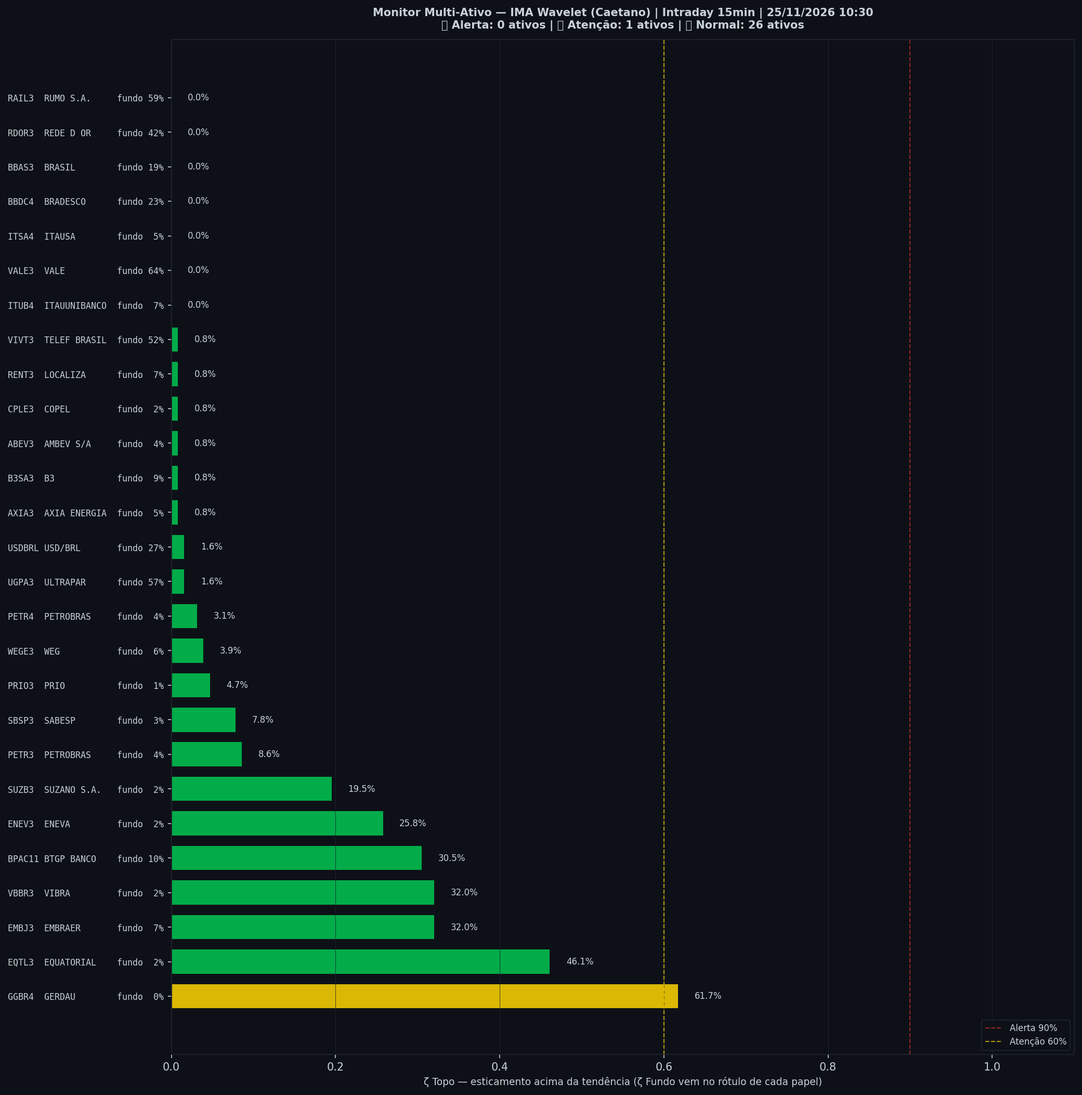
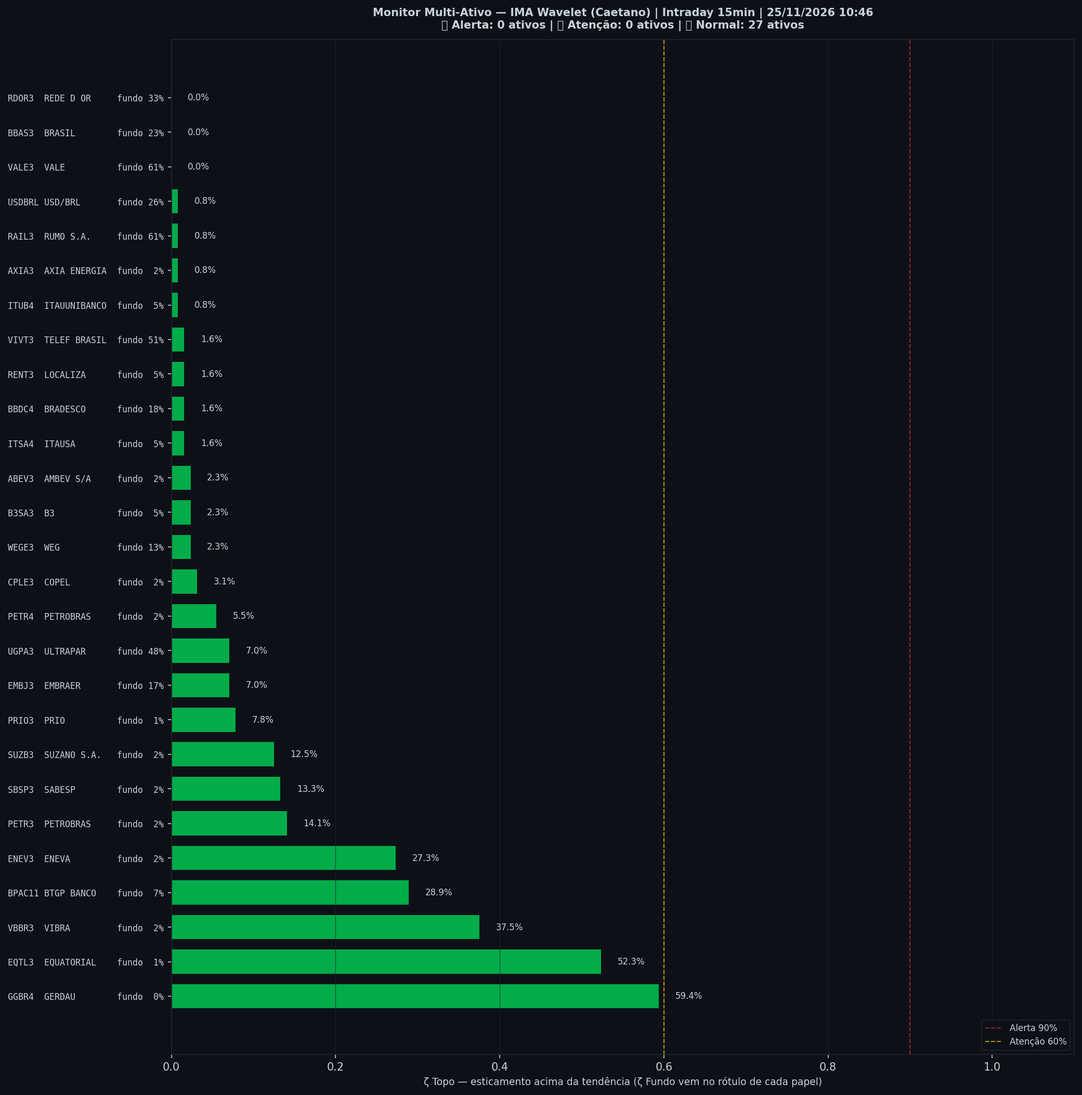
🤖 Auto: Sinal 25/11/2026 10:46

Changed region(s): [[0.1562, 0.8642, 0.6559, 0.9259], [0.1562, 0.1543, 0.2186, 0.6481], [0.2186, 0.679, 0.4685, 0.8642]]

diff --git a/content/intraday/2026-11-25.md b/content/intraday/2026-11-25.md
@@ -1,20 +1,20 @@
 ---
-title: "🟢 Intraday 25/11/2026 10:15 BRT — VERDE"
+title: "🟢 Intraday 25/11/2026 10:30 BRT — VERDE"
 date: 2026-11-25
 tags: [intraday]
 ---
 
-<p style="margin:.4rem 0 .2rem"><span style="display:inline-block;text-align:center;margin:0 1.8rem .2rem 0"><span style="font-size:4rem;font-weight:800;line-height:1;color:inherit">0%</span><br><span style="font-size:.95rem;opacity:.75">ζ Topo</span></span><span style="display:inline-block;text-align:center;margin:0 1.8rem .2rem 0"><span style="font-size:4rem;font-weight:800;line-height:1;color:inherit">8%</span><br><span style="font-size:.95rem;opacity:.75">ζ Fundo</span></span><span style="display:inline-block;text-align:center;margin:0 1.8rem .2rem 0"><span style="font-size:4rem;font-weight:800;line-height:1;color:inherit">−2,4%</span><br><span style="font-size:.95rem;opacity:.75">Dist. da média · p30</span></span></p><p style="margin:0 0 .9rem;opacity:.7;font-size:.9rem">25/11/2026 10:15 BRT · candles de 15 min</p>
+<p style="margin:.4rem 0 .2rem"><span style="display:inline-block;text-align:center;margin:0 1.8rem .2rem 0"><span style="font-size:4rem;font-weight:800;line-height:1;color:inherit">2%</span><br><span style="font-size:.95rem;opacity:.75">ζ Topo</span></span><span style="display:inline-block;text-align:center;margin:0 1.8rem .2rem 0"><span style="font-size:4rem;font-weight:800;line-height:1;color:inherit">5%</span><br><span style="font-size:.95rem;opacity:.75">ζ Fundo</span></span><span style="display:inline-block;text-align:center;margin:0 1.8rem .2rem 0"><span style="font-size:4rem;font-weight:800;line-height:1;color:inherit">−2,0%</span><br><span style="font-size:.95rem;opacity:.75">Dist. da média · p38</span></span></p><p style="margin:0 0 .9rem;opacity:.7;font-size:.9rem">25/11/2026 10:30 BRT · candles de 15 min</p>
 
-> [!success] Onde o mercado está agora (25/11 10:15, candles de 15 min): **🟢 Sem esticamento**
-> `Pânico ····················· Euforia` · **sem leitura** — os dois ζ abaixo de 20% (Topo 0%, Fundo 8%). A régua mede ζ Topo − ζ Fundo, hoje −8 p.p.; ponteiro no centro seria lido como equilíbrio, e não há esticamento medido de nenhum dos dois lados.
+> [!success] Onde o mercado está agora (25/11 10:30, candles de 15 min): **🟢 Sem esticamento**
+> `Pânico ····················· Euforia` · **sem leitura** — os dois ζ abaixo de 20% (Topo 2%, Fundo 5%). A régua mede ζ Topo − ζ Fundo, hoje −3 p.p.; ponteiro no centro seria lido como equilíbrio, e não há esticamento medido de nenhum dos dois lados.
 >
-> **O Ibovespa está praticamente de lado agora, aos 164.396 pontos.** O preço não fez movimento brusco em relação à sua tendência, nem para cima nem para baixo. Isso fala da velocidade do movimento, não do nível do preço.
+> **O Ibovespa sobe 0,58% agora, aos 165.037 pontos.** O preço não fez movimento brusco em relação à sua tendência, nem para cima nem para baixo. Isso fala da velocidade do movimento, não do nível do preço.
 >
 > *Leitura educacional baseada em 26 anos de dados. Não é recomendação de investimento.*
 
-> [!success] IMA Intraday · 15 min (25/11 10:15): 🟢 **VERDE** — ζ Topo **0%** · ▼ -4 p.p. vs leitura anterior
-> `░░░░░░░░░░░░░░░░░░░░` **0%**
+> [!success] IMA Intraday · 15 min (25/11 10:30): 🟢 **VERDE** — ζ Topo **2%** · ▲ +2 p.p. vs leitura anterior
+> `░░░░░░░░░░░░░░░░░░░░` **2%**
 > Sem esticamento brusco em relação à tendência.
 
 
@@ -22,13 +22,13 @@ tags: [intraday]
 
 
 
-| Indicador — IMA Intraday · 15 min (25/11 10:15) | Valor |
+| Indicador — IMA Intraday · 15 min (25/11 10:30) | Valor |
 |---|---|
-| ζ Topo — preço esticado acima da tendência | **0%** |
-| ζ Fundo — preço esticado abaixo da tendência | 8% |
+| ζ Topo — preço esticado acima da tendência | **2%** |
+| ζ Fundo — preço esticado abaixo da tendência | 5% |
 | 🟢 Zona | VERDE |
-| 📊 Ibovespa | 164.396 pts <span style="color:#f85149" title="caiu">▼</span> (−0,12%) |
-| 📏 Distância da média | −2,4% (p30) |
+| 📊 Ibovespa | 165.037 pts <span style="color:#3fb950" title="subiu">▲</span> (+0,39%) |
+| 📏 Distância da média | −2,0% (p38) |
 | 🛰 Fonte do preço | preço da corretora, tempo real |
 
 
@@ -39,6 +39,7 @@ tags: [intraday]
 
 | Data | Fechamento | Zona | Evento | ζ Topo | ζ Fundo | Dist. média |
 |---|---|---|---|---|---|---|
+| 2026-11-25 10:30 | 165.037 <span style="color:#3fb950" title="subiu">▲</span> | 🟢 |  | **2%** | **5%** | −2,0% (p38) |
 | 2026-11-25 10:15 | 164.396 <span style="color:#f85149" title="caiu">▼</span> | 🟢 |  | **0%** | **8%** | −2,4% (p30) |
 | 2026-11-25 10:00 | 164.601 <span style="color:#3fb950" title="subiu">▲</span> | 🟢 |  | **4%** | **3%** | −2,3% (p32) |
 | 2026-11-24 18:00 | 164.090 <span style="opacity:.45" title="estável">▬</span> | 🟢 |  | **1%** | **8%** | −2,6% (p27) |
@@ -68,54 +69,53 @@ tags: [intraday]
 | 2026-11-24 12:00 | 166.057 <span style="color:#f85149" title="caiu">▼</span> | 🟡 |  | 🟡 **61%** | **0%** | −1,8% (p42) |
 | 2026-11-24 11:45 | 166.990 <span style="color:#f85149" title="caiu">▼</span> | 🟡 |  | 🟡 **63%** | **0%** | −1,3% (p47) |
 | 2026-11-24 11:30 | 167.384 <span style="color:#3fb950" title="subiu">▲</span> | 🟡 |  | 🟡 **62%** | **0%** | −1,0% (p47) |
-| 2026-11-24 11:15 | 166.531 <span style="color:#f85149" title="caiu">▼</span> | 🟢 |  | **32%** | **1%** | −1,6% (p45) |
 
 <small>Destaques: 🟡 ≥ 60% · 🔴 ≥ 90% (ζ Topo) · 🔵 ≥ 60% · 🔪 ≥ 90% (ζ Fundo)<br>**Zona**: 🟢 calmo, 🟡 atenção e 🔴 extremo vêm do ζ Topo; 🔵 FUNDO (ζ Fundo ≥ 60%) e 🔪 FACA (≥ 90%) vêm do ζ Fundo e têm precedência, porque queda em andamento é fato medido, não previsão.<br>**Dist. média**: a distância do preço à média dos 252 candles de 15 min — **≈ 7,6 pregões**, medido em 33 barras por pregão — e, entre parênteses, o percentil dessa distância nos 500 candles anteriores (**≈ 15 pregões**). `−8,2% (p0)` = o preço está 8,2% **abaixo** da média e nunca esteve tão abaixo em toda a janela. 🔵 ≤ p10 · 🔴 ≥ p90. É a régua simples contra a qual o ζ precisa provar que acrescenta algo.</small>
 
 ## Monitor Multi-Ativo
 
-**11% dos ativos em tensão** (3 de 27 · 1🔵 2🟡) · leitura de 25/11 10:30 BRT, candles de 15 min — quanto mais ativos disparam juntos, mais confiável o sinal. 🔪 e 🔵 vêm do ζ Fundo; 🔴 e 🟡, do ζ Topo.
+**15% dos ativos em tensão** (4 de 27 · 2🔵 2🟡) · leitura de 25/11 10:46 BRT, candles de 15 min — quanto mais ativos disparam juntos, mais confiável o sinal. 🔪 e 🔵 vêm do ζ Fundo; 🔴 e 🟡, do ζ Topo.
 
 *Origem do preço: 26 da corretora, em tempo real · 1 da reserva, com cerca de 45 min de atraso (USD/BRL).*
 
 > [!warning] Em destaque no multi-ativo
-> 🔵 **VALE** `VALE3` ζ Fundo 64% · 🟡 **GERDAU** `GGBR4` ζ Topo 62%
+> 🔵 **VALE** `VALE3` ζ Fundo 61% · 🔵 **RUMO S.A.** `RAIL3` ζ Fundo 61%
 
 | Zona | Ativo | Setor | Fechamento | ζ Topo | ζ Fundo | Dist. média |
 |---|---|---|---|---|---|---|
-| 🔵 | **VALE** `VALE3` | Mineração | 55,41 <span style="color:#3fb950" title="subiu">▲</span> | 0.0% | 🔵 **64.1%** | 🔵 −7,7% (p4) |
-| 🟡 | **GERDAU** `GGBR4` | Siderurgia | 25,23 <span style="color:#f85149" title="caiu">▼</span> | 🟡 **61.7%** | 0.0% | +0,4% (p43) |
-| 🟢 | **RUMO S.A.** `RAIL3` | Outros | 16,95 <span style="color:#3fb950" title="subiu">▲</span> | 0.0% | 59.4% | +2,4% (p34) |
-| 🟢 | **ULTRAPAR** `UGPA3` | Outros | 30,58 <span style="color:#3fb950" title="subiu">▲</span> | 1.6% | 57.0% | −0,5% (p62) |
-| 🟢 | **TELEF BRASIL** `VIVT3` | Outros | 34,95 <span style="color:#f85149" title="caiu">▼</span> | 0.8% | 51.6% | −0,1% (p16) |
-| 🟡 | **EQUATORIAL** `EQTL3` | Energia | 33,76 <span style="color:#3fb950" title="subiu">▲</span> | 46.1% | 1.6% | +0,4% (p63) |
-| 🟢 | **REDE D OR** `RDOR3` | Saúde | 36,89 <span style="color:#3fb950" title="subiu">▲</span> | 0.0% | 42.2% | +3,0% (p53) |
-| 🟢 | **EMBRAER** `EMBJ3` | Outros | 100,00 <span style="color:#f85149" title="caiu">▼</span> | 32.0% | 7.0% | 🔵 −8,7% (p0) |
-| 🟢 | **VIBRA** `VBBR3` | Energia | 31,71 <span style="color:#3fb950" title="subiu">▲</span> | 32.0% | 2.3% | +3,9% (p83) |
-| 🟢 | **BTGP BANCO** `BPAC11` | Financeiro | 50,31 <span style="color:#f85149" title="caiu">▼</span> | 30.5% | 10.2% | −2,8% (p52) |
-| 🟢 | **USD/BRL** `USDBRL=X` | Câmbio | 5,89 <span style="color:#3fb950" title="subiu">▲</span> | 1.6% | 26.6% | +1,2% (p12) |
-| 🟢 | **ENEVA** `ENEV3` | Energia | 26,69 <span style="color:#3fb950" title="subiu">▲</span> | 25.8% | 1.6% | +0,9% (p69) |
-| 🟢 | **BRADESCO** `BBDC4` | Financeiro | 13,70 <span style="color:#3fb950" title="subiu">▲</span> | 0.0% | 22.7% | −3,0% (p33) |
-| 🟢 | **SUZANO S.A.** `SUZB3` | Papel/Celulose | 55,86 <span style="color:#3fb950" title="subiu">▲</span> | 19.5% | 1.6% | +0,9% (p20) |
-| 🟢 | **BRASIL** `BBAS3` | Financeiro | 14,16 <span style="color:#3fb950" title="subiu">▲</span> | 0.0% | 18.8% | −3,3% (p66) |
-| 🟢 | **PETROBRAS** `PETR3` | Petróleo | 46,63 <span style="color:#3fb950" title="subiu">▲</span> | 8.6% | 3.9% | −5,7% (p46) |
-| 🟢 | **B3** `B3SA3` | Financeiro | 14,35 <span style="color:#3fb950" title="subiu">▲</span> | 0.8% | 8.6% | −1,1% (p41) |
-| 🟢 | **SABESP** `SBSP3` | Saneamento | 28,12 <span style="color:#3fb950" title="subiu">▲</span> | 7.8% | 3.1% | +2,4% (p54) |
-| 🟢 | **ITAUUNIBANCO** `ITUB4` | Financeiro | 39,73 <span style="color:#3fb950" title="subiu">▲</span> | 0.0% | 7.0% | −2,6% (p32) |
-| 🟢 | **LOCALIZA** `RENT3` | Aluguel | 28,83 <span style="color:#3fb950" title="subiu">▲</span> | 0.8% | 7.0% | −2,0% (p40) |
-| 🟢 | **WEG** `WEGE3` | Industrial | 48,92 <span style="color:#f85149" title="caiu">▼</span> | 3.9% | 6.2% | 🔵 −3,9% (p0) |
-| 🟢 | **AXIA ENERGIA** `AXIA3` | Energia | 45,72 <span style="color:#f85149" title="caiu">▼</span> | 0.8% | 5.5% | −2,7% (p32) |
-| 🟢 | **ITAUSA** `ITSA4` | Financeiro | 12,96 <span style="color:#3fb950" title="subiu">▲</span> | 0.0% | 4.7% | −2,4% (p22) |
-| 🟢 | **PRIO** `PRIO3` | Petróleo | 60,13 <span style="color:#f85149" title="caiu">▼</span> | 4.7% | 0.8% | −2,6% (p62) |
-| 🟢 | **PETROBRAS** `PETR4` | Petróleo | 40,93 <span style="color:#3fb950" title="subiu">▲</span> | 3.1% | 3.9% | −5,5% (p52) |
-| 🟢 | **AMBEV S/A** `ABEV3` | Consumo | 16,17 <span style="color:#3fb950" title="subiu">▲</span> | 0.8% | 3.9% | +1,6% (p53) |
-| 🟢 | **COPEL** `CPLE3` | Energia | 15,04 <span style="color:#3fb950" title="subiu">▲</span> | 0.8% | 1.6% | −1,1% (p24) |
+| 🔵 | **VALE** `VALE3` | Mineração | 55,26 <span style="color:#f85149" title="caiu">▼</span> | 0.0% | 🔵 **60.9%** | 🔵 −7,9% (p3) |
+| 🔵 | **RUMO S.A.** `RAIL3` | Outros | 17,12 <span style="color:#3fb950" title="subiu">▲</span> | 0.8% | 🔵 **60.9%** | +3,3% (p46) |
+| 🟡 | **GERDAU** `GGBR4` | Siderurgia | 25,09 <span style="color:#f85149" title="caiu">▼</span> | 59.4% | 0.0% | −0,2% (p30) |
+| 🟡 | **EQUATORIAL** `EQTL3` | Energia | 34,04 <span style="color:#3fb950" title="subiu">▲</span> | 52.3% | 0.8% | +1,2% (p70) |
+| 🟢 | **TELEF BRASIL** `VIVT3` | Outros | 34,82 <span style="color:#f85149" title="caiu">▼</span> | 1.6% | 50.8% | −0,5% (p15) |
+| 🟢 | **ULTRAPAR** `UGPA3` | Outros | 30,83 <span style="color:#3fb950" title="subiu">▲</span> | 7.0% | 48.4% | +0,3% (p68) |
+| 🟢 | **VIBRA** `VBBR3` | Energia | 31,86 <span style="color:#3fb950" title="subiu">▲</span> | 37.5% | 2.3% | +4,4% (p88) |
+| 🟢 | **REDE D OR** `RDOR3` | Saúde | 37,06 <span style="color:#3fb950" title="subiu">▲</span> | 0.0% | 32.8% | +3,4% (p63) |
+| 🟢 | **BTGP BANCO** `BPAC11` | Financeiro | 50,42 <span style="color:#3fb950" title="subiu">▲</span> | 28.9% | 7.0% | −2,6% (p54) |
+| 🟢 | **ENEVA** `ENEV3` | Energia | 26,83 <span style="color:#3fb950" title="subiu">▲</span> | 27.3% | 1.6% | +1,5% (p74) |
+| 🟢 | **USD/BRL** `USDBRL=X` | Câmbio | 5,89 <span style="color:#3fb950" title="subiu">▲</span> | 0.8% | 25.8% | +1,3% (p12) |
+| 🟢 | **BRASIL** `BBAS3` | Financeiro | 14,14 <span style="color:#f85149" title="caiu">▼</span> | 0.0% | 23.4% | −3,4% (p66) |
+| 🟢 | **BRADESCO** `BBDC4` | Financeiro | 13,80 <span style="color:#3fb950" title="subiu">▲</span> | 1.6% | 18.0% | −2,3% (p38) |
+| 🟢 | **EMBRAER** `EMBJ3` | Outros | 100,25 <span style="color:#3fb950" title="subiu">▲</span> | 7.0% | 17.2% | 🔵 −8,4% (p0) |
+| 🟢 | **PETROBRAS** `PETR3` | Petróleo | 46,92 <span style="color:#3fb950" title="subiu">▲</span> | 14.1% | 2.3% | −5,1% (p54) |
+| 🟢 | **SABESP** `SBSP3` | Saneamento | 28,34 <span style="color:#3fb950" title="subiu">▲</span> | 13.3% | 2.3% | +3,2% (p61) |
+| 🟢 | **WEG** `WEGE3` | Industrial | 49,27 <span style="color:#3fb950" title="subiu">▲</span> | 2.3% | 13.3% | 🔵 −3,2% (p1) |
+| 🟢 | **SUZANO S.A.** `SUZB3` | Papel/Celulose | 55,53 <span style="color:#f85149" title="caiu">▼</span> | 12.5% | 1.6% | +0,3% (p17) |
+| 🟢 | **PRIO** `PRIO3` | Petróleo | 60,39 <span style="color:#3fb950" title="subiu">▲</span> | 7.8% | 0.8% | −2,2% (p65) |
+| 🟢 | **PETROBRAS** `PETR4` | Petróleo | 41,17 <span style="color:#3fb950" title="subiu">▲</span> | 5.5% | 1.6% | −4,9% (p58) |
+| 🟢 | **ITAUSA** `ITSA4` | Financeiro | 13,05 <span style="color:#3fb950" title="subiu">▲</span> | 1.6% | 5.5% | −1,7% (p36) |
+| 🟢 | **B3** `B3SA3` | Financeiro | 14,45 <span style="color:#3fb950" title="subiu">▲</span> | 2.3% | 5.5% | −0,4% (p47) |
+| 🟢 | **LOCALIZA** `RENT3` | Aluguel | 29,05 <span style="color:#3fb950" title="subiu">▲</span> | 1.6% | 5.5% | −1,2% (p48) |
+| 🟢 | **ITAUUNIBANCO** `ITUB4` | Financeiro | 40,02 <span style="color:#3fb950" title="subiu">▲</span> | 0.8% | 4.7% | −1,8% (p42) |
+| 🟢 | **COPEL** `CPLE3` | Energia | 15,10 <span style="color:#3fb950" title="subiu">▲</span> | 3.1% | 1.6% | −0,7% (p31) |
+| 🟢 | **AMBEV S/A** `ABEV3` | Consumo | 16,19 <span style="color:#3fb950" title="subiu">▲</span> | 2.3% | 1.6% | +1,7% (p56) |
+| 🟢 | **AXIA ENERGIA** `AXIA3` | Energia | 45,83 <span style="color:#3fb950" title="subiu">▲</span> | 0.8% | 1.6% | −2,4% (p35) |
 
 <small>Destaques: 🟡 ≥ 60% · 🔴 ≥ 90% (ζ Topo) · 🔵 ≥ 60% · 🔪 ≥ 90% (ζ Fundo)<br>**Zona**: 🟢 calmo, 🟡 atenção e 🔴 extremo vêm do ζ Topo; 🔵 FUNDO (ζ Fundo ≥ 60%) e 🔪 FACA (≥ 90%) vêm do ζ Fundo e têm precedência, porque queda em andamento é fato medido, não previsão.<br>**Dist. média**: a distância do preço à média dos 252 candles de 15 min — **≈ 7,6 pregões**, medido em 33 barras por pregão — e, entre parênteses, o percentil dessa distância nos 500 candles anteriores (**≈ 15 pregões**). `−8,2% (p0)` = o preço está 8,2% **abaixo** da média e nunca esteve tão abaixo em toda a janela. 🔵 ≤ p10 · 🔴 ≥ p90. É a régua simples contra a qual o ζ precisa provar que acrescenta algo.</small>
 
 ![Monitor multi-ativo](../graficos/multi_intraday.png)
 
-*Página atualizada em 25/11/2026 10:30 BRT (leitura da barra de 2026-11-25 10:15 BRT · preço da corretora, tempo real).*
+*Página atualizada em 25/11/2026 10:46 BRT (leitura da barra de 2026-11-25 10:30 BRT · preço da corretora, tempo real).*
 
 > [!warning] O que este indicador não faz
 > Medido em 5 anos de Ibovespa, o ζ **não antecipa** topos nem fundos: a capacidade de separar o que sobe do que cai ficou em 0,49–0,52, e 0,50 é moeda jogada ao ar. Ele descreve o estado de agora; não é aviso do que vem. As zonas verde/amarelo/vermelho continuam na página como descrição desse estado — **não as use como sinal de entrada ou saída**.

diff --git a/content/index.md b/content/index.md
@@ -7,12 +7,12 @@ tags: [home]
 
 **As ondas do mercado, explicadas.** Leitura do Ibovespa com estatística de 26 anos, baseada no trabalho de pesquisadores e traders reconhecidos e adaptada por Jarbas Daniel da Costa.
 
-*Última atualização: 25/11/2026 10:30 BRT · Intraday 15min · preço da corretora, tempo real*
+*Última atualização: 25/11/2026 10:46 BRT · Intraday 15min · preço da corretora, tempo real*
 
-> [!success] Onde o mercado está agora (25/11 10:15, candles de 15 min): **🟢 Sem esticamento**
-> `Pânico ····················· Euforia` · **sem leitura** — os dois ζ abaixo de 20% (Topo 0%, Fundo 8%). A régua mede ζ Topo − ζ Fundo, hoje −8 p.p.; ponteiro no centro seria lido como equilíbrio, e não há esticamento medido de nenhum dos dois lados.
+> [!success] Onde o mercado está agora (25/11 10:30, candles de 15 min): **🟢 Sem esticamento**
+> `Pânico ····················· Euforia` · **sem leitura** — os dois ζ abaixo de 20% (Topo 2%, Fundo 5%). A régua mede ζ Topo − ζ Fundo, hoje −3 p.p.; ponteiro no centro seria lido como equilíbrio, e não há esticamento medido de nenhum dos dois lados.
 >
-> **O Ibovespa está praticamente de lado agora, aos 164.396 pontos.** O preço não fez movimento brusco em relação à sua tendência, nem para cima nem para baixo. Isso fala da velocidade do movimento, não do nível do preço.
+> **O Ibovespa sobe 0,58% agora, aos 165.037 pontos.** O preço não fez movimento brusco em relação à sua tendência, nem para cima nem para baixo. Isso fala da velocidade do movimento, não do nível do preço.
 >
 > *Leitura educacional baseada em 26 anos de dados. Não é recomendação de investimento.*
 
@@ -20,7 +20,7 @@ tags: [home]
 
 | Módulo | Agora | |
 |---|---|---|
-| 🌊 **Sinal IMA** | 🟢 VERDE · 🟢 calmo · ζ Topo 0% | [relatório](intraday/2026-11-25) |
+| 🌊 **Sinal IMA** | 🟢 VERDE · 🟢 calmo · ζ Topo 2% | [relatório](intraday/2026-11-25) |
 | 📈 **Tendência MME9** | Diário — fora<br>Semanal — fora | [abrir](operacoes/tendencia) |
 | 🎯 **Entradas do método** | — nenhuma regra com setup ativo | [abrir](operacoes/entradas) |
 | 📍 **Sinais** | hoje: nenhum sinal | [abrir](sinais-topo-fundo/) |
@@ -39,27 +39,27 @@ tags: [home]
 *[Linha do tempo completa](linha-do-tempo/) — todo sinal, ordem, stop e aviso, do mais recente para o mais antigo. ⚡ = vale durante o pregão · ⏱ = no fechamento.*
 
 > [!info]- 🌊 Detalhes do Sinal IMA (indicadores e últimos 7 pregões)
-> > [!success] IMA Intraday · 15 min (25/11 10:15): 🟢 **VERDE** — ζ Topo **0%** · ▼ -4 p.p. vs leitura anterior
-> > `░░░░░░░░░░░░░░░░░░░░` **0%**
+> > [!success] IMA Intraday · 15 min (25/11 10:30): 🟢 **VERDE** — ζ Topo **2%** · ▲ +2 p.p. vs leitura anterior
+> > `░░░░░░░░░░░░░░░░░░░░` **2%**
 > > Sem esticamento brusco em relação à tendência.
 >
 >
-> | Indicador — IMA Intraday · 15 min (25/11 10:15) | Valor |
+> | Indicador — IMA Intraday · 15 min (25/11 10:30) | Valor |
 > |---|---|
-> | ζ Topo — preço esticado acima da tendência | **0%** |
-> | ζ Fundo — preço esticado abaixo da tendência | 8% |
+> | ζ Topo — preço esticado acima da tendência | **2%** |
+> | ζ Fundo — preço esticado abaixo da tendência | 5% |
 > | 🟢 Zona | VERDE |
-> | 📊 Ibovespa | 164.396 pts <span style="color:#f85149" title="caiu">▼</span> (−0,12%) |
-> | 📏 Distância da média | −2,4% (p30) |
+> | 📊 Ibovespa | 165.037 pts <span style="color:#3fb950" title="subiu">▲</span> (+0,39%) |
+> | 📏 Distância da média | −2,0% (p38) |
 > | 🛰 Fonte do preço | preço da corretora, tempo real |
 >
-> **Multi-ativo:** 4% em tensão (0🔴 2🟡 de 27 ativos)
+> **Multi-ativo:** 0% em tensão (0🔴 2🟡 de 27 ativos)
 >
 > **Últimos 7 pregões**
 >
 > | Data | Fechamento | Zona | ζ Topo | ζ Fundo | Dist. média |
 > |---|---|---|---|---|---|
-> | [25/11/2026](intraday/2026-11-25) | 164.396 <span style="color:#f85149" title="caiu">▼</span> | 🟢 | **0%** | **8%** | −2,4% (p30) |
+> | [25/11/2026](intraday/2026-11-25) | 165.037 <span style="color:#3fb950" title="subiu">▲</span> | 🟢 | **2%** | **5%** | −2,0% (p38) |
 > | [24/11/2026](intraday/2026-11-24) | 164.090 <span style="opacity:.45" title="estável">▬</span> | 🟢 | **1%** | **8%** | −2,6% (p27) |
 >
 > <small>Destaques: 🟡 ≥ 60% · 🔴 ≥ 90% (ζ Topo) · 🔵 ≥ 60% · 🔪 ≥ 90% (ζ Fundo)<br>**Zona**: 🟢 calmo, 🟡 atenção e 🔴 extremo vêm do ζ Topo; 🔵 FUNDO (ζ Fundo ≥ 60%) e 🔪 FACA (≥ 90%) vêm do ζ Fundo e têm precedência, porque queda em andamento é fato medido, não previsão.<br>**Dist. média**: a distância do preço à média dos 252 pregões — **≈ 1 ano** — e, entre parênteses, o percentil dessa distância nos 500 pregões anteriores (**≈ 2 anos**). `−8,2% (p0)` = o preço está 8,2% **abaixo** da média e nunca esteve tão abaixo em toda a janela. 🔵 ≤ p10 · 🔴 ≥ p90. É a régua simples contra a qual o ζ precisa provar que acrescenta algo.</small>

diff --git a/content/integridade/index.md b/content/integridade/index.md
@@ -6,7 +6,7 @@ description: "O que foi conferido, contra qual fonte e quando — medido na hora
 tags: [integridade]
 ---
 
-*Pregão conferido: **24/11/2026**, com 59 tabelas no acervo · página gerada em 25/11/2026 10:30*
+*Pregão conferido: **24/11/2026**, com 59 tabelas no acervo · página gerada em 25/11/2026 10:46*
 
 O pregão conferido é o último **fechado e arquivado inteiro**, não o de hoje: enquanto o dia corre, só algumas tabelas estão gravadas, e conferir um dia pela metade produziria alarme falso.
 
@@ -23,7 +23,7 @@ Esta página não declara que o site está correto. Ela **mede** e escreve o res
 | Tabelas com conteúdo fora da curva | **1** — veja a seção 1 |
 | Páginas publicadas | 370 |
 | Conferências cruzadas das páginas | 71 certas, nenhuma divergência |
-| Página escrita mais recentemente | 25/11 10:30 |
+| Página escrita mais recentemente | 25/11 10:46 |
 | Páginas sem data no cabeçalho | 9 — cegas para a conferência de dado |
 
 ## 1 · Acervo do boletim diário

diff --git a/content/operacoes/ranking.md b/content/operacoes/ranking.md
@@ -56,7 +56,7 @@ description: "As regras de compra do site ordenadas pelo resultado, com treino, 
 > 
 > Operação **com 🧪** começou depois de **23/10/2026**, com as regras congeladas. É o único resultado sem nenhum ajuste ao passado, e é por ele que cada regra está sendo julgada.
 
-*Atualizado 25/11/2026 10:30 · histórico simulado com as regras congeladas em 23/10/2026 + placar ao vivo.*
+*Atualizado 25/11/2026 10:46 · histórico simulado com as regras congeladas em 23/10/2026 + placar ao vivo.*
 
 As regras de compra do site, **da que mais rendeu para a que menos rendeu**. O resultado é por operação, no índice à vista, sem custos e sem juros compostos (a soma é só a soma das operações). **Treino** = entradas de 2001 a 2013 e **teste** = 2014 em diante: uma regra só é confiável se ganhou nos dois. O único resultado sem nenhum ajuste ao histórico é o **placar ao vivo**.
 

diff --git a/content/lppl.md b/content/lppl.md
@@ -5,7 +5,7 @@ date: 2026-11-25
 
 <p style="margin:.4rem 0 0"><span style="display:inline-block;text-align:center;margin:0 1.8rem .2rem 0"><span style="font-size:4rem;font-weight:800;line-height:1;color:inherit">0%</span><br><span style="font-size:.95rem;opacity:.75">bolha</span></span><span style="display:inline-block;text-align:center;margin:0 1.8rem .2rem 0"><span style="font-size:4rem;font-weight:800;line-height:1;color:inherit">0%</span><br><span style="font-size:.95rem;opacity:.75">antibolha</span></span></p>
 
-**Leitura de 24/11/2026** · pagina gerada em 25/11/2026 10:30 BRT
+**Leitura de 24/11/2026** · pagina gerada em 25/11/2026 10:46 BRT
 
 Acima de 30% o sinal deixa de ser ruido. O LPPL **nao** decide o semaforo do site — veja a nota no fim.
 

diff --git a/content/historico.md b/content/historico.md
@@ -5,7 +5,7 @@ tags: [historico]
 
 # 📜 Histórico de leituras (v5)
 
-**2.584 leituras** desde 2026-07-03. Na página ficam os últimos 3 dias leitura por leitura e o resumo de cada dia anterior; o registro inteiro está no arquivo para baixar.
+**2.585 leituras** desde 2026-07-03. Na página ficam os últimos 3 dias leitura por leitura e o resumo de cada dia anterior; o registro inteiro está no arquivo para baixar.
 
 [**Baixar o histórico completo**](historico-completo.csv) (113 KB · abre no Excel e no LibreOffice)
 
@@ -18,6 +18,7 @@ tags: [historico]
 
 | Data | Zona | ζ Topo |
 |---|---|---|
+| 2026-11-25 10:30 | 🟢 | **2%** |
 | 2026-11-25 10:15 | 🟢 | **0%** |
 | 2026-11-25 10:00 | 🟢 | **4%** |
 | 2026-11-24 18:00 | 🟢 | **1%** |

diff --git a/content/linha-do-tempo/index.md b/content/linha-do-tempo/index.md
@@ -5,7 +5,7 @@ description: "Todo sinal, ordem, stop e aviso do Pêndulo de Mercado, do mais re
 tags: [eventos]
 ---
 
-*Atualizada 25/11/2026 10:30 BRT · a cada 15 min no pregão e às 19h.*
+*Atualizada 25/11/2026 10:46 BRT · a cada 15 min no pregão e às 19h.*
 
 Tudo o que o sistema fez ou detectou, **do mais recente para o mais antigo**: sinais de topo e fundo, ordens de compra e de venda armadas, compras, vendas, stops, avisos de 🚨 preço perto do nível e mudanças do Sinal IMA. Os **últimos 7 dias** ficam abertos; o resto, por **ano → mês → dia**.
 

diff --git a/content/avisos/index.md b/content/avisos/index.md
@@ -2,7 +2,7 @@
 title: "⚠ Avisos: o que saber antes de usar os números"
 ---
 
-*Gerado em 25/11/2026 10:30*
+*Gerado em 25/11/2026 10:46*
 
 Este site publica muitos números, e cada um tem uma limitação que importa na hora de
 decidir. As limitações estão escritas nas próprias páginas, mas quem chega direto numa
